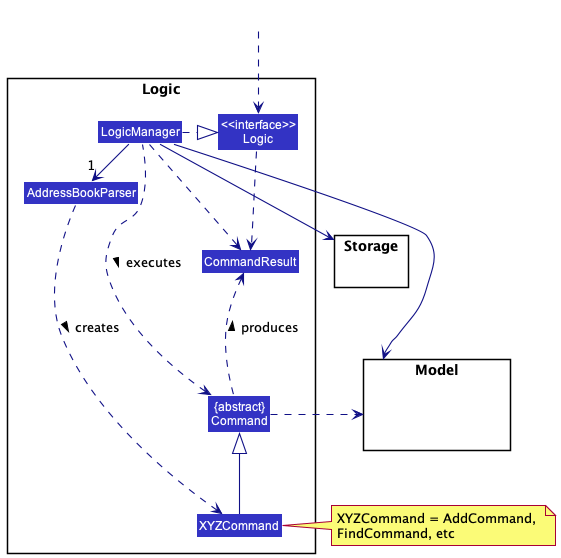
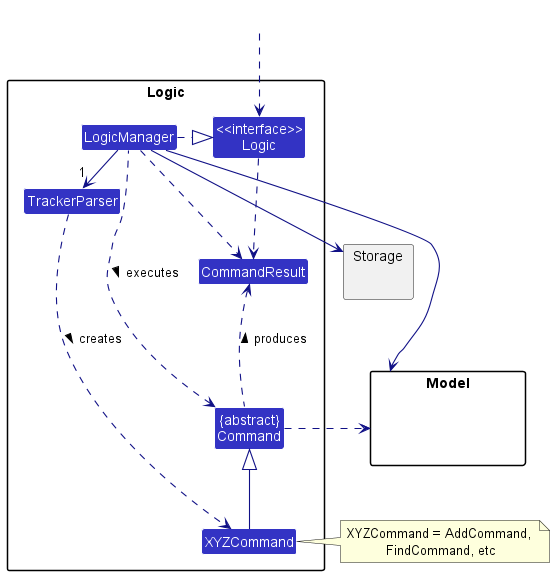
Update Logic section in DG

diff --git a/docs/DeveloperGuide.md b/docs/DeveloperGuide.md
@@ -113,16 +113,20 @@ Here's a (partial) class diagram of the `Logic` component:
 
 How the `Logic` component works:
 
-1. When `Logic` is called upon to execute a command, it uses the `AddressBookParser` class to parse the user command.
+1. When `Logic` is called upon to execute a command, several observers subscribe to the `TrackerEventSystem.`
+1. The command text is first pre-processed (e.g. `NavigationInjector` could modify the command text by inserting `/mod CS2040S /lec Week 1`).
+1. `Logic` then uses the `TrackerParser` class to parse the user command.
 1. This results in a `Command` object (more precisely, an object of one of its subclasses e.g., `AddCommand`) which is executed by the `LogicManager`.
 1. The command can communicate with the `Model` when it is executed (e.g. to add a person).
-1. The result of the command execution is encapsulated as a `CommandResult` object which is returned back from `Logic`.
+1. The result of the command execution is encapsulated as a `CommandResult`.
+1. Based on the `CommandResult`, several systems such as `Navigation` are notified through the `TrackerEventSystem`.
+1. The `CommandResult` object is then returned back from `Logic`.
 
-The Sequence Diagram below illustrates the interactions within the `Logic` component for the `execute("delete 1")` API call.
+The Sequence Diagram below illustrates the interactions within the `Logic` component for the `execute("add CS2040S")` API call.
 
-![Interactions Inside the Logic Component for the `delete 1` Command](images/DeleteSequenceDiagram.png)
+![Interactions Inside the Logic Component for the `add CS2040S` Command](images/AddSequenceDiagram.png)
 
-<div markdown="span" class="alert alert-info">:information_source: **Note:** The lifeline for `DeleteCommandParser` should end at the destroy marker (X) but due to a limitation of PlantUML, the lifeline reaches the end of diagram.
+<div markdown="span" class="alert alert-info">:information_source: **Note:** The lifeline for `AddCommandParser` should end at the destroy marker (X) but due to a limitation of PlantUML, the lifeline reaches the end of diagram.
 </div>
 
 Here are the other classes in `Logic` (omitted from the class diagram above) that are used for parsing a user command:
@@ -131,8 +135,8 @@ Here are the other classes in `Logic` (omitted from the class diagram above) tha
 
 How the parsing works:
 
-- When called upon to parse a user command, the `AddressBookParser` class creates an `XYZCommandParser` (`XYZ` is a placeholder for the specific command name e.g., `AddCommandParser`) which uses the other classes shown above to parse the user command and create a `XYZCommand` object (e.g., `AddCommand`) which the `AddressBookParser` returns back as a `Command` object.
-- All `XYZCommandParser` classes (e.g., `AddCommandParser`, `DeleteCommandParser`, ...) inherit from the `Parser` interface so that they can be treated similarly where possible e.g, during testing.
+- When called upon to parse a user command, the `TrackerParser` class creates an `XYZCommandParser` (`XYZ` is a placeholder for the specific command name e.g., `AddCommandParser`) which uses the other classes shown above to parse the user command and create a `XYZCommand` object (e.g., `AddVideoCommand`) which the `TrackerParser` returns back as a `Command` object.
+- All `XYZCommandParser` classes (e.g., `AddCommandParser`, `NavCommandParser`, ...) inherit from the `Parser` interface so that they can be treated similarly where possible e.g, during testing.
 
 ### Model component
 
